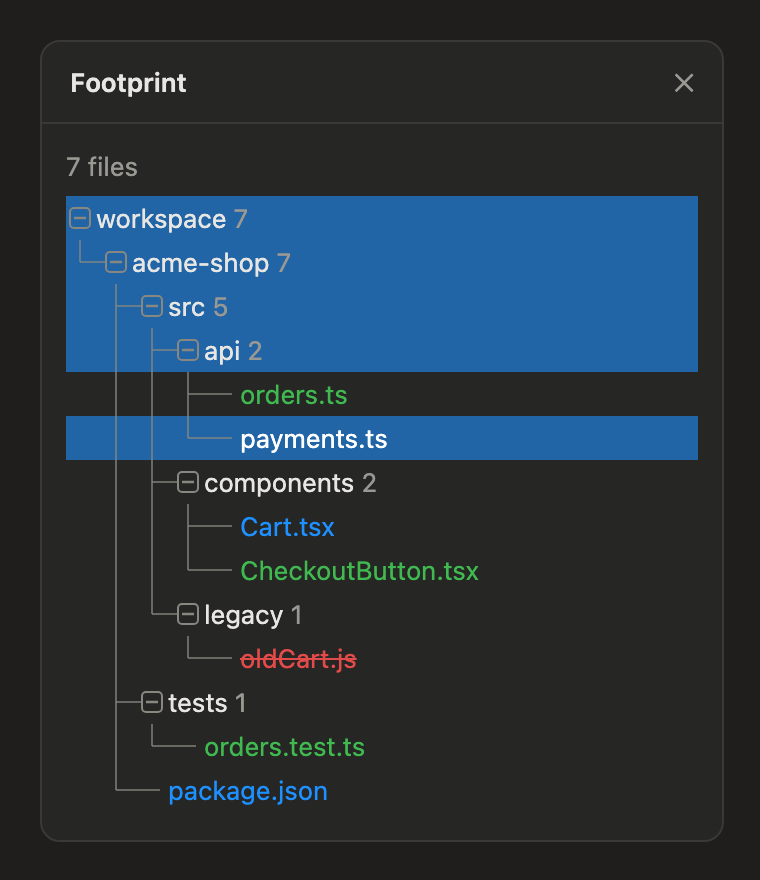
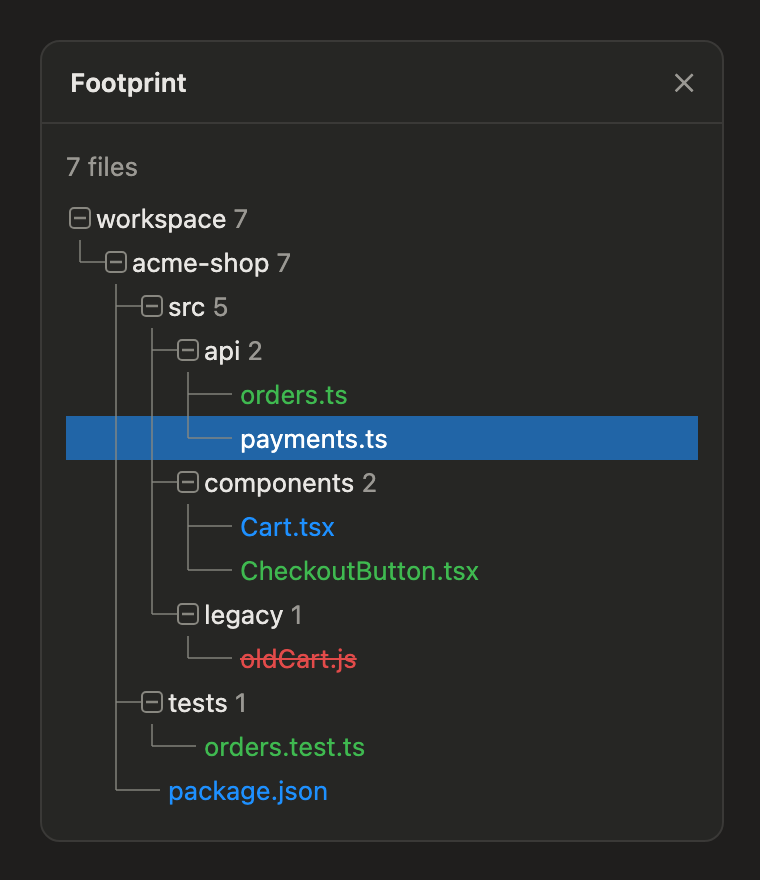
Flash only the row that shows a change
A change lights the file row when it is visible, else its first
collapsed parent folder; open folders never flash.

Changed region(s): [[0.0605, 0.2148, 0.9382, 0.4295]]

diff --git a/hooks/register.tsx b/hooks/register.tsx
@@ -408,8 +408,10 @@ export const register: Register = on => {
         if ('d' in it) {
           const [name, d] = it.d!
           const isOpen = expanded.has(d.path)
+          // Only the row that shows a change flashes: an open folder's children are on screen, so it stays quiet;
+          // a collapsed folder is the first visible parent of what changed below it.
           const row = (
-            <Box key={'rd:' + d.path} flexDirection="row" overflow="hidden" backgroundColor={flash(d.last)}>
+            <Box key={'rd:' + d.path} flexDirection="row" overflow="hidden" backgroundColor={isOpen ? undefined : flash(d.last)}>
               {fixed(lead(more, isLast, { open: isOpen, path: d.path }))}
               <Box flexShrink={1} minWidth={0}>
                 <Button plain key={'n:' + d.path} onPress={() => toggle(d.path)}>
@@ -449,13 +451,20 @@ export const register: Register = on => {
           </Box>,
         ]
       })
-      if (hidden > 0)
+      if (hidden > 0) {
+        // The "… more" row stands in for the rows it hides, so it shows (flashes) their newest change.
+        const last = items.slice(MAX_ROWS).reduce<Mark['last']>(
+          (acc, it) =>
+            latest(acc, 'd' in it ? it.d![1].last : it.f!.mark.last && { at: it.f!.mark.last.at, change: it.f!.st }),
+          undefined,
+        )
         out.push(
-          <Box key={'rm:' + n.path} flexDirection="row">
+          <Box key={'rm:' + n.path} flexDirection="row" backgroundColor={flash(last)}>
             {fixed(lead(more, true))}
             <Text dimColor> … {hidden} more</Text>
           </Box>,
         )
+      }
       return out
     }
 

diff --git a/hooks/register.test.tsx b/hooks/register.test.tsx
@@ -72,16 +72,21 @@ test('folders start collapsed and a press toggles them', async ($, on) => {
   await ui.unmount()
 })
 
-test('a change flashes the file row and every parent row', async ($, on) => {
+test('a change flashes only the row that shows it: the file, or its first collapsed parent', async ($, on) => {
   engine(on, { exists: [false, true], list: [] })
   await $.tool.call({ tool: 'Write', file_path: '/r/src/a.ts', content: 'x' })
 
   const ui = await $.ui.mount({ ...PANE, surface: 'desktop' })
   const bg = async (key: string) => (await ui.find({ type: 'Box', key }))?.props.backgroundColor
-  // added = amber, at full strength right after the change; the collapsed parent flashes too.
+  // All collapsed: /r is the first visible parent, so it flashes (added = green).
   expect(await bg('rd:/r')).toMatch(/^#3FB950/)
-  await expand(ui, '/r', '/r/src')
+  // /r open, /r/src collapsed: /r goes quiet, /r/src flashes.
+  await expand(ui, '/r')
+  expect(await bg('rd:/r')).toBe(undefined)
   expect(await bg('rd:/r/src')).toMatch(/^#3FB950/)
+  // Everything open: only the file row flashes.
+  await expand(ui, '/r/src')
+  expect(await bg('rd:/r/src')).toBe(undefined)
   expect(await bg('rf:/r/src/a.ts')).toMatch(/^#3FB950/)
   await ui.unmount()
 })

diff --git a/README.md b/README.md
@@ -20,7 +20,7 @@ Answer `y` to add the marketplace, then pick a scope. The pane opens with the ne
 
 One tree from the filesystem root, one folder row per path segment, every folder collapsed until you press it. Drawn guide lines and a boxed `+`/`-` before each folder on the desktop app, VS Code and mobile; plain indent in the terminal.
 
-File names are colored by status: green for added, blue for modified, red and struck through for deleted. Long names are cut in the middle. A file the session created and then removed is hidden. When a file changes, its row and every parent folder row flash in that color and fade within 3 seconds, so a change shows even inside a collapsed folder. A press on an added or modified file opens it in the desktop app's file pane.
+File names are colored by status: green for added, blue for modified, red and struck through for deleted. Long names are cut in the middle. A file the session created and then removed is hidden. When a file changes, the row that shows it flashes in its color and fades within 3 seconds: the file itself when it is visible, else its first collapsed parent folder. A press on an added or modified file opens it in the desktop app's file pane.
 
 ## How it works
 
